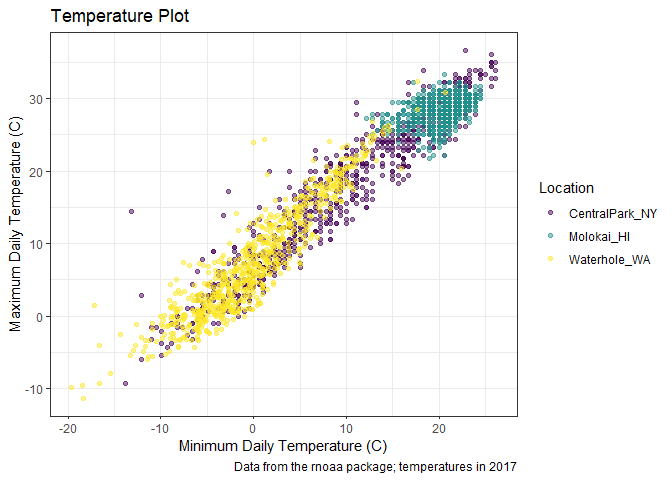
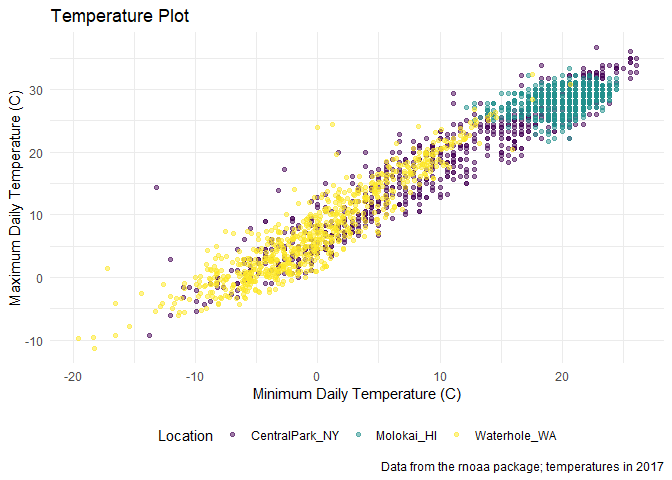
daata arguements

diff --git a/viz_2.md b/viz_2.md
@@ -235,13 +235,88 @@ weather_df %>%
     caption = " Data from the rnoaa package; temperatures in 2017"
   )+
   viridis:: scale_color_viridis(   # scale has to be discrete and we have to tell it that
-    
     name = "Location",
     discrete = TRUE )+
-      theme_bw()  # made background white and bold outside , theme_classic no gridlines, ggthemes:: has many other themes
+      theme_minimal()+
+      theme(legend.position = "bottom")
 ```
 
     ## Warning: Removed 17 rows containing missing values or values outside the scale range
     ## (`geom_point()`).
 
 ![](viz_2_files/figure-gfm/unnamed-chunk-10-1.png)<!-- -->
+
+``` r
+  # mostly used by Jeff, made background white and bold outside , theme_classic no gridlines, ggthemes:: has many other themes, note minimal overrides the location. so have to put after
+```
+
+## Setting Options
+
+``` r
+library(tidyverse)
+
+knitr:: opts_chunk$set(
+  fig.width = 6,
+  fig.asp = .6,
+  out.width = "90%"
+)
+
+theme_set(theme_minimal()+ theme(legend.position = "bottom"))
+
+# theme_set to determine whatever theme I want inside of this document. Now everyplot that I make when I load the tidyverse and update the theme everywhere 
+
+# can also update options 
+
+options(
+  
+  ggplot2.continuous.colour = "viridis",
+  ggplot2.continuous.fill = "viridis"
+)
+
+#This will take care of the color arguement for plots and densities.
+
+scale_fill_discrete = scale_fill_viridis_d()    
+#all the options will make sure it uses the viridus 
+```
+
+# Data args in `geom`
+
+``` r
+central_park_df = 
+  weather_df %>% 
+  filter(name == "CentralPark_NY")
+
+molokai_df = 
+  weather_df %>% 
+  filter(name == "Molokai_HI")
+
+ggplot(data = molokai_df, aes(x = date, y = tmax, color = name)) + 
+  geom_point()+
+geom_line()   #connects the dots 
+```
+
+    ## Warning: Removed 1 row containing missing values or values outside the scale range
+    ## (`geom_point()`).
+
+![](viz_2_files/figure-gfm/unnamed-chunk-12-1.png)<!-- -->
+
+``` r
+ggplot(data = molokai_df, aes(x = date, y = tmax, color = name)) + 
+  geom_point()+
+geom_line(data = central_park_df)
+```
+
+    ## Warning: Removed 1 row containing missing values or values outside the scale range
+    ## (`geom_point()`).
+
+![](viz_2_files/figure-gfm/unnamed-chunk-12-2.png)<!-- -->
+
+If we want to use one whole dataset in geom_point and another in
+geom_line we can like below. Don’t try to make one geom apply to one
+subset and another geom. Instead we created two different datasets and
+then used the data arguement data = central_park to determine which
+dataset applies to which geometry.
+
+Use often when you need OR want to display a summary that you have
+computed from a dataset that is more complicated than the mean and
+median. Often create a second dataset and then use in the arguement.
